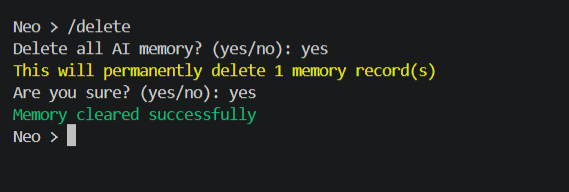
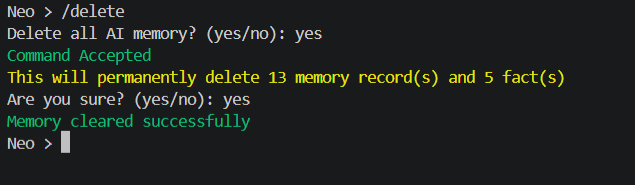
Updated screenshots and demo gif

Changed region(s): [[0.0, 0.0, 0.8963, 0.8378]]

diff --git a/README.md b/README.md
@@ -132,6 +132,23 @@ neo-AI/
 └── test_facts.py      # pytest suite
 ```
 
+## Screenshots and Demos
+
+### Demos
+![Neo Chat Demo](demo.gif/-neo_demo)
+
+### Chat
+![Chat](screenshots/chat.png)
+
+### System Status
+![Status](screenshots/status.png)
+
+### Logs
+![Logs](screenshots/logs.png)
+
+### Memory Delete
+![Delete](screenshots/delete.png)
+
 ---
 
 ## Database Schema
